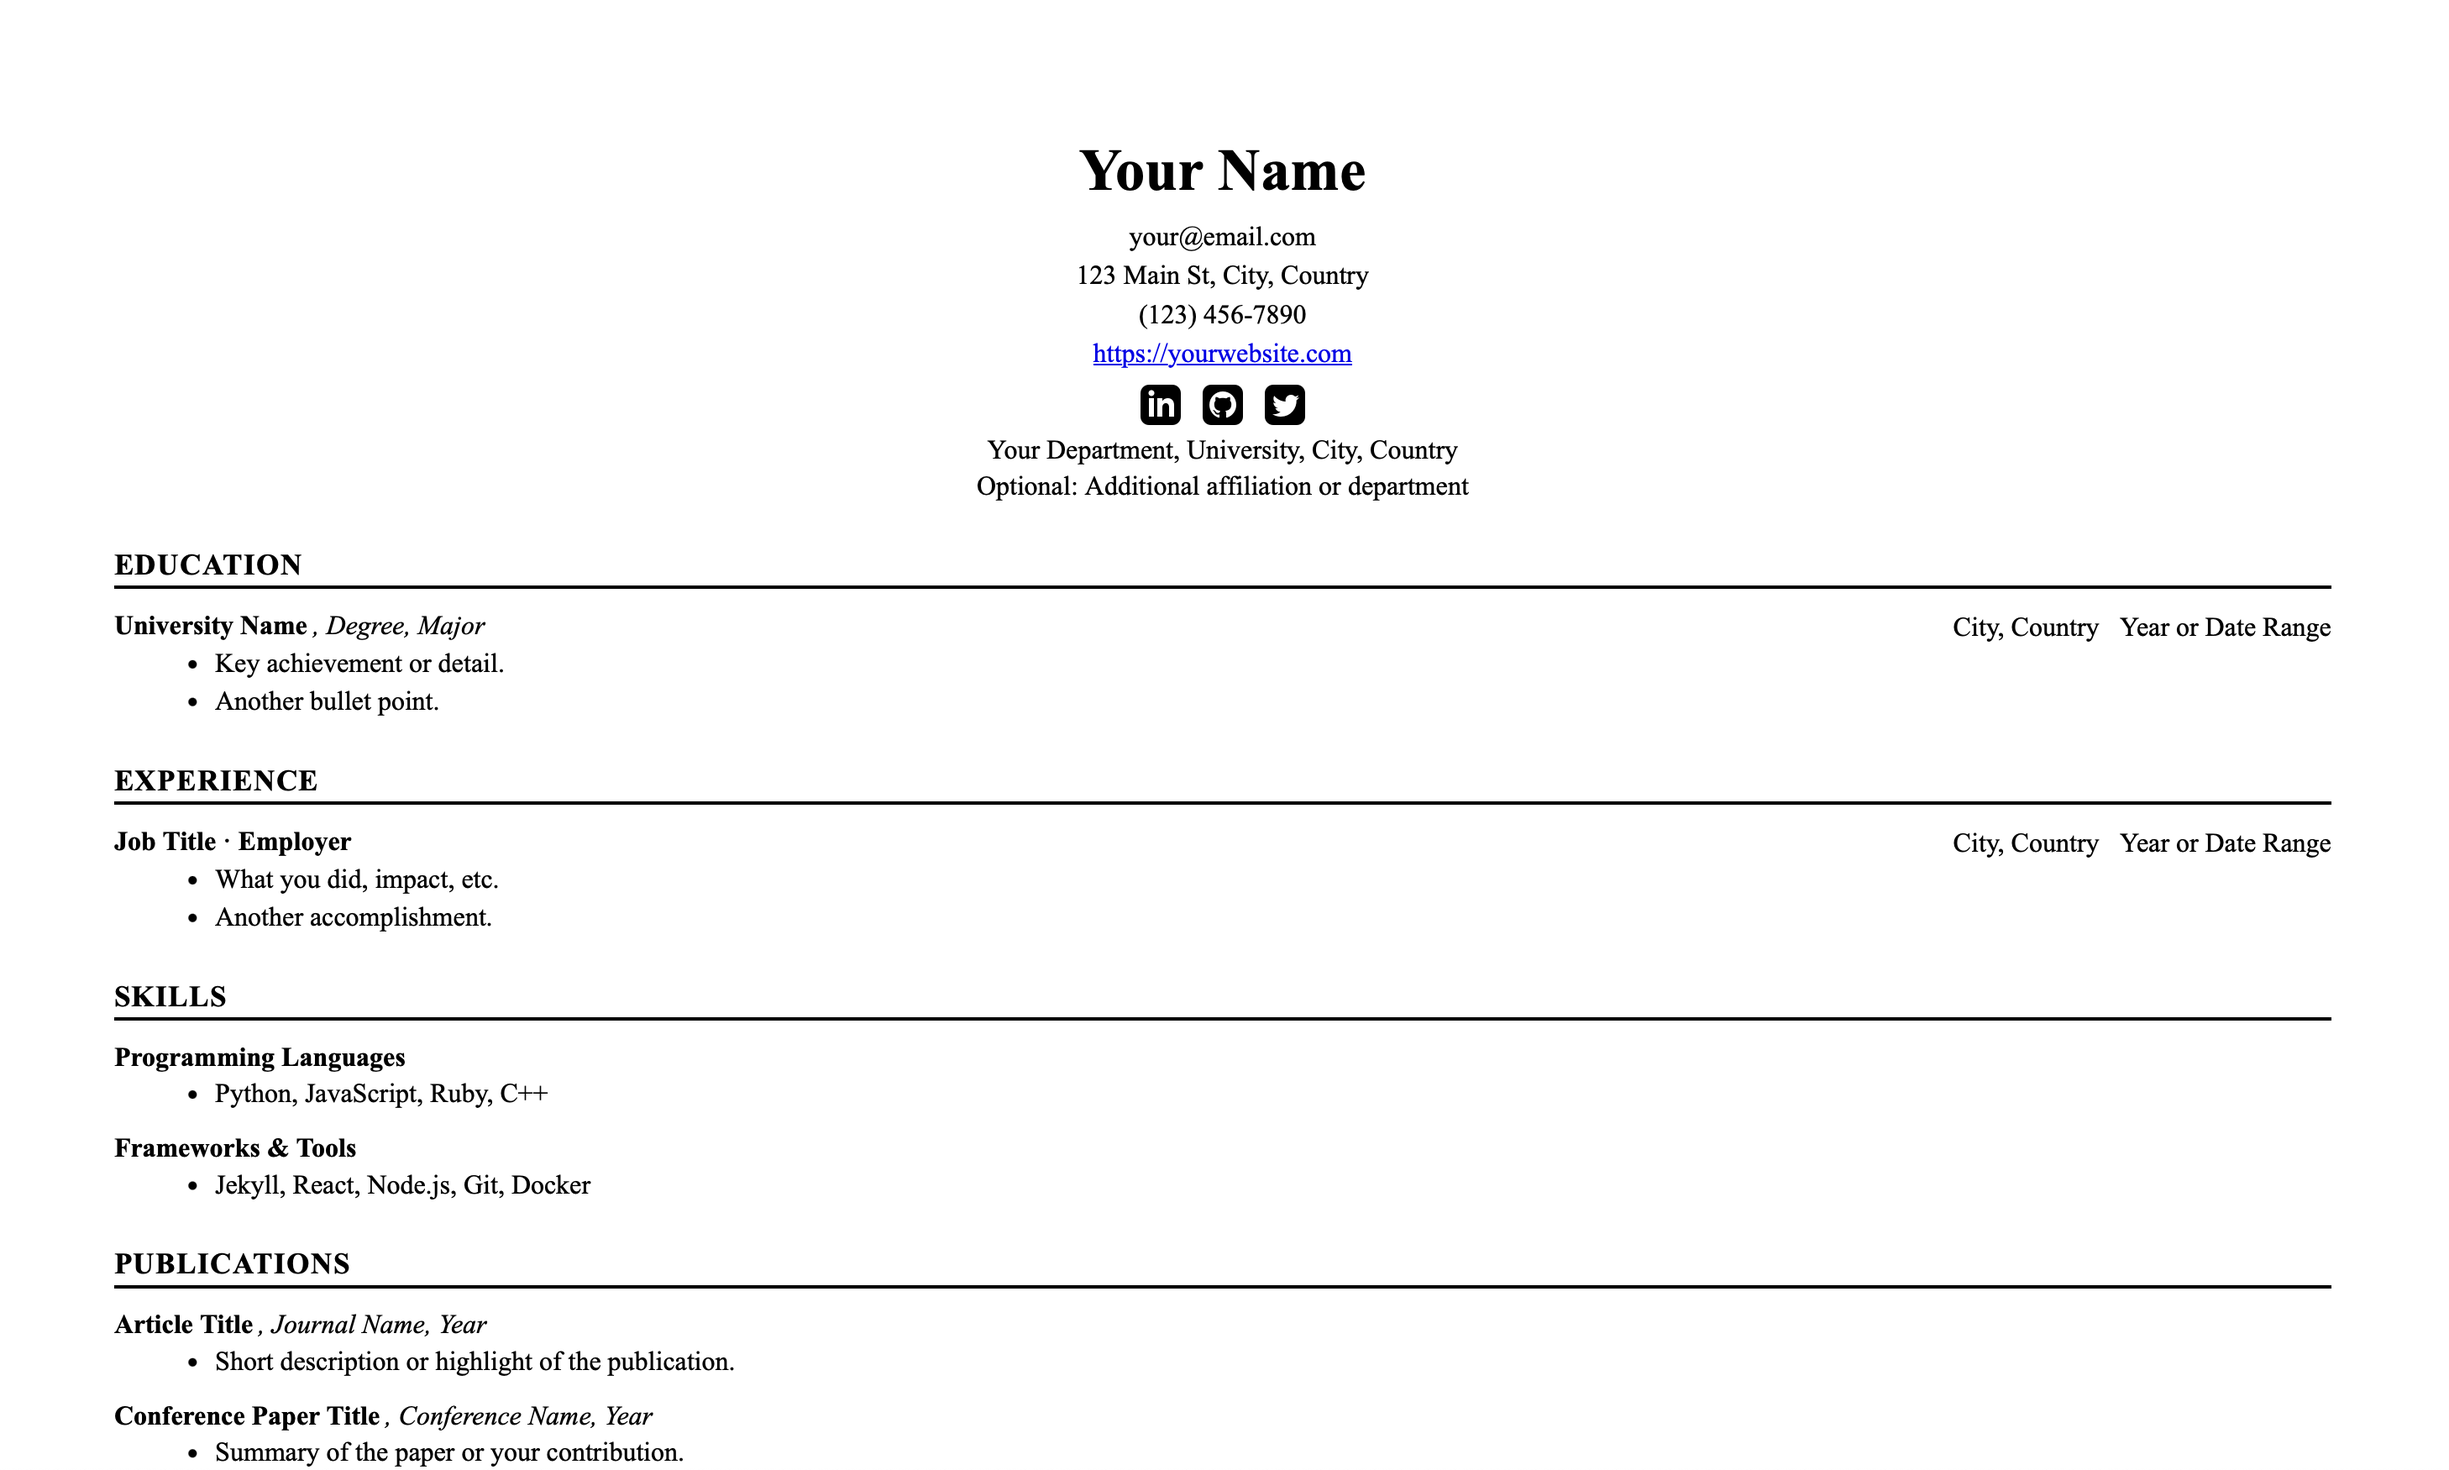
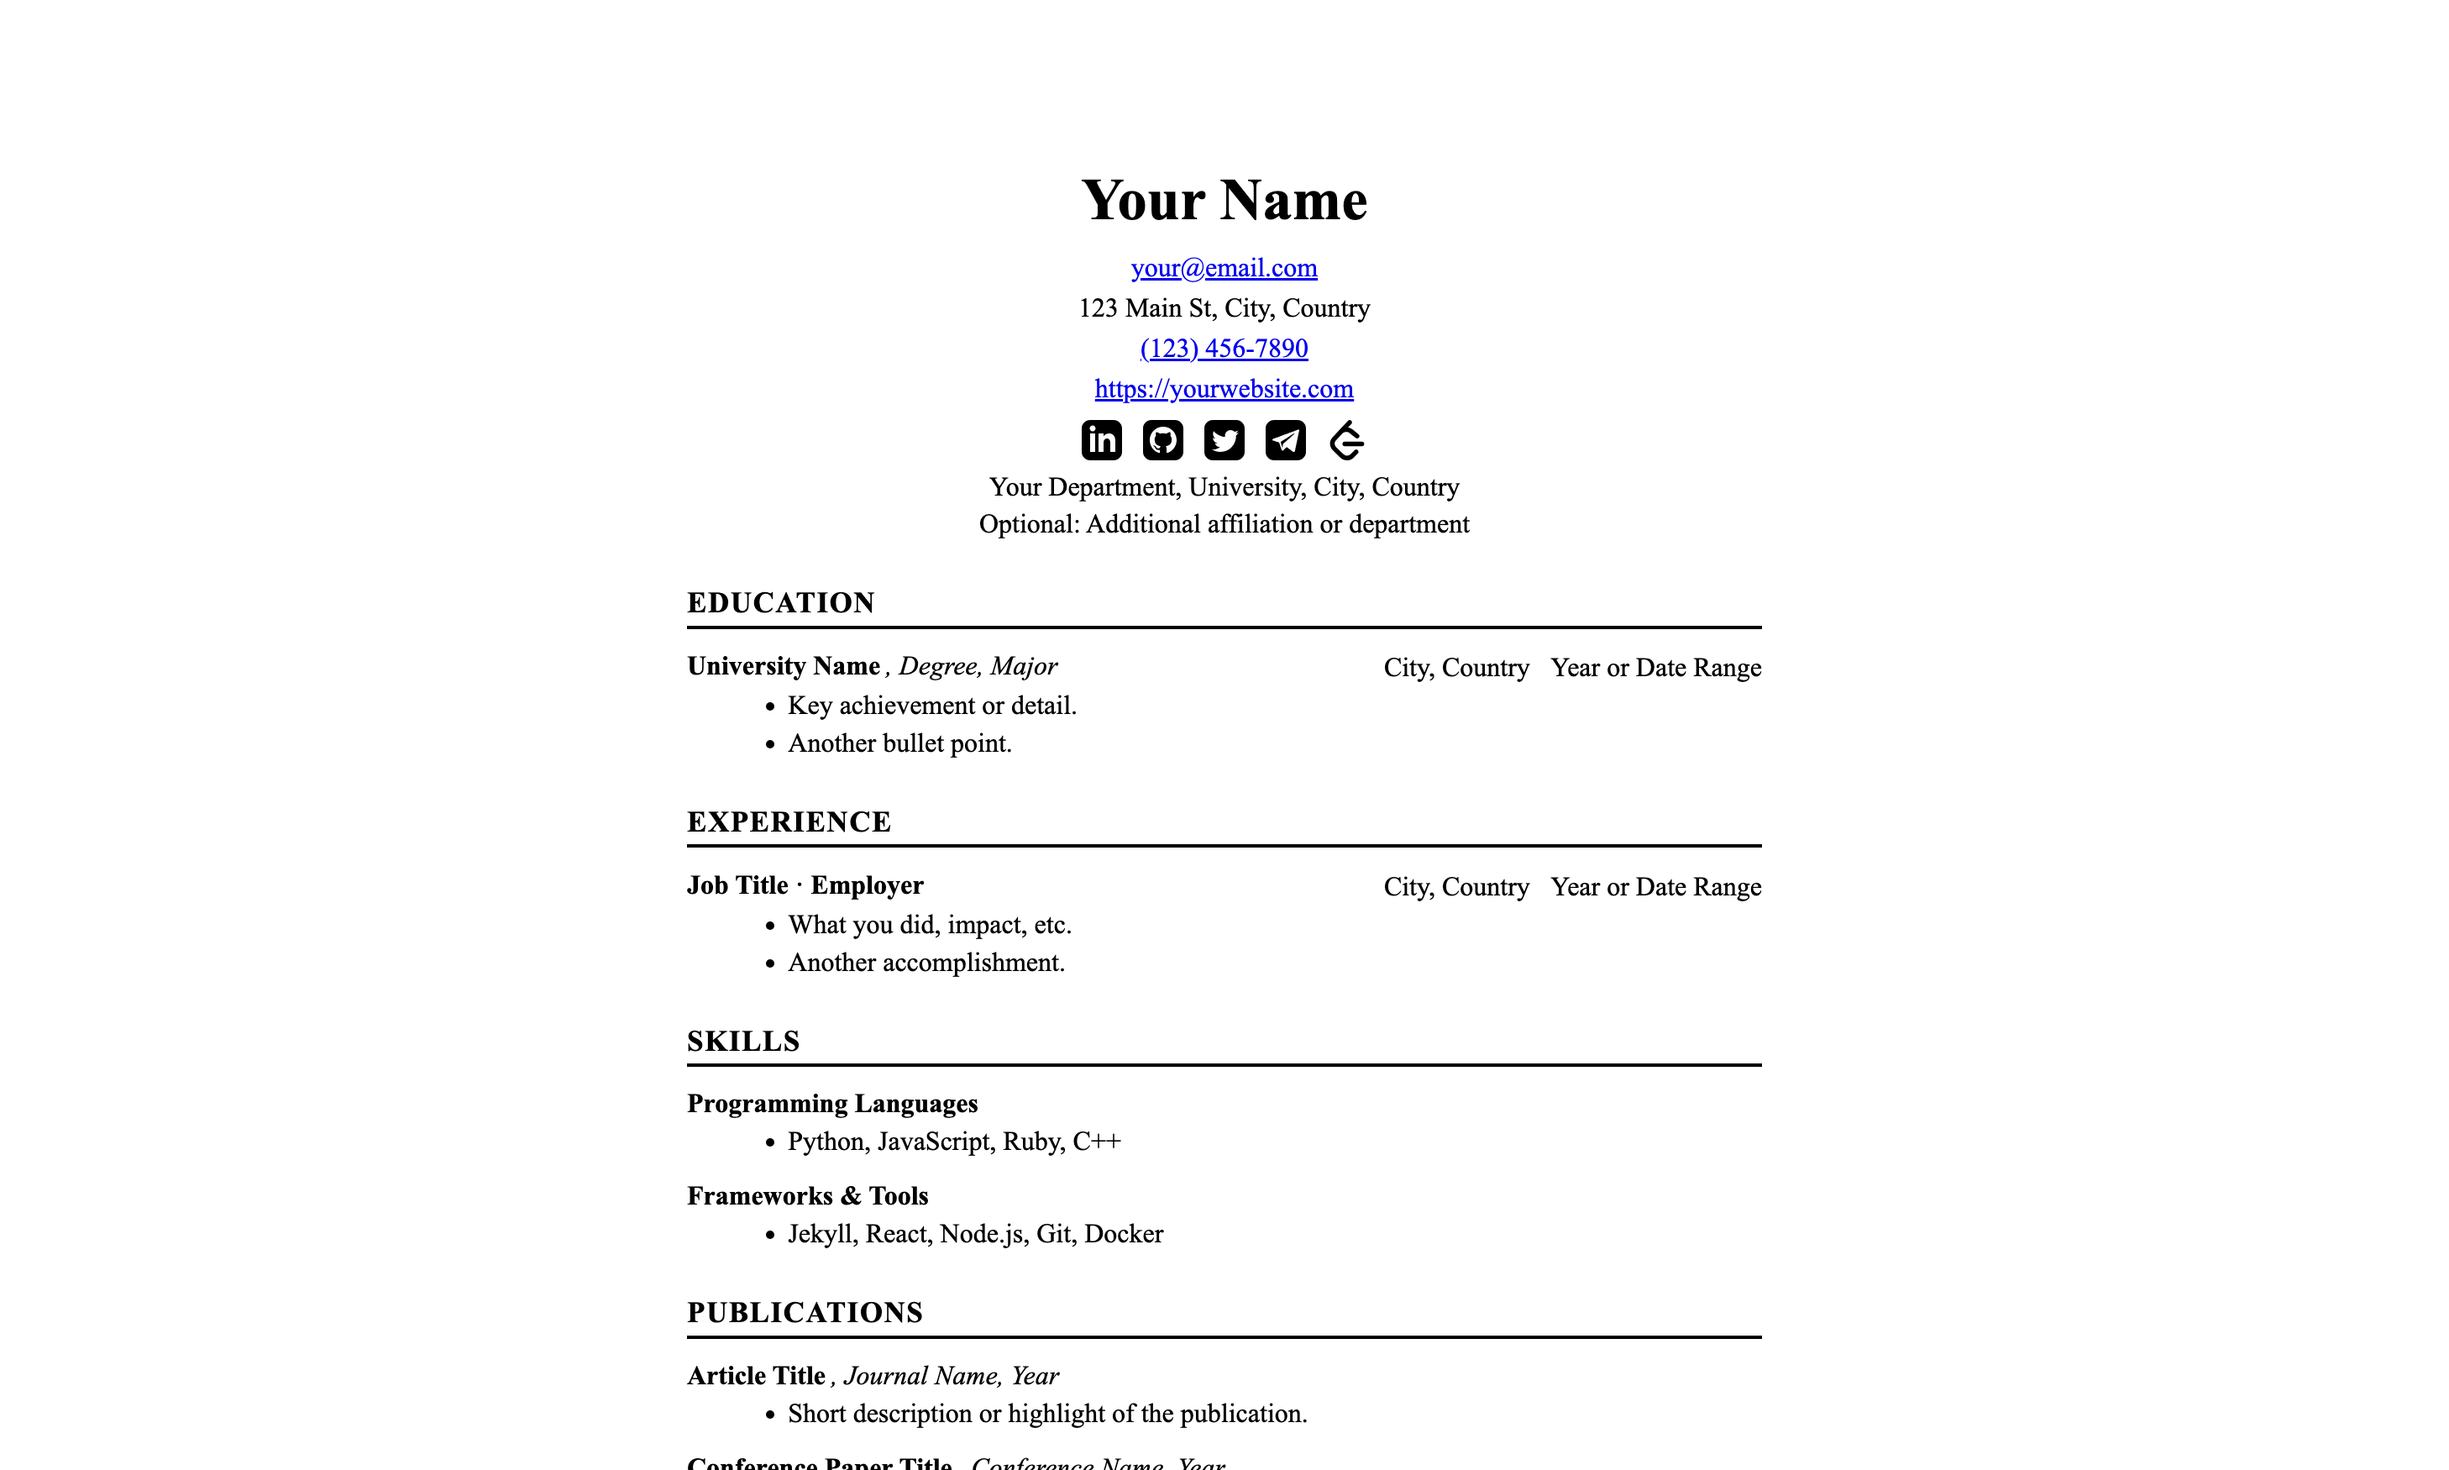
fix: narrow column to 40rem and refresh screenshots
At 44rem a measured bullet line held ~96 characters, above the 85-90
Bringhurst allows for discontinuous text; 40rem gives ~86. Screenshots
retaken at the original viewport sizes with the current layout.

diff --git a/assets/css/main.scss b/assets/css/main.scss
@@ -7,7 +7,7 @@ $color-text: #000;
 body {
   font-family: $font-body;
   color: $color-text;
-  max-width: 44rem;
+  max-width: 40rem;
   margin: 1in auto;
   line-height: 1.3;
   background: #fff;

diff --git a/CONSTITUTION.md b/CONSTITUTION.md
@@ -93,7 +93,7 @@ sections:
 - **Typography**: Times New Roman (serif) for academic appearance
 - **Colors**: Black text on white background for print compatibility
 - **Spacing**: 1-inch margins on screen (0.5in in print), 1.3 line height
-- **Line length**: Body capped at `max-width: 44rem` (~85–90 characters per line). Do not raise it much: Bringhurst puts the limit for discontinuous text such as bibliographies at 85–90 characters (*The Elements of Typographic Style*, §2.1.2)
+- **Line length**: Body capped at `max-width: 40rem` (~86 characters per bullet line, measured). Do not raise it much: Bringhurst puts the limit for discontinuous text such as bibliographies at 85–90 characters (*The Elements of Typographic Style*, §2.1.2)
 - **Print optimization**: Separate print media queries
 - **Social icons**: SVG-based with fallback text for print
 
